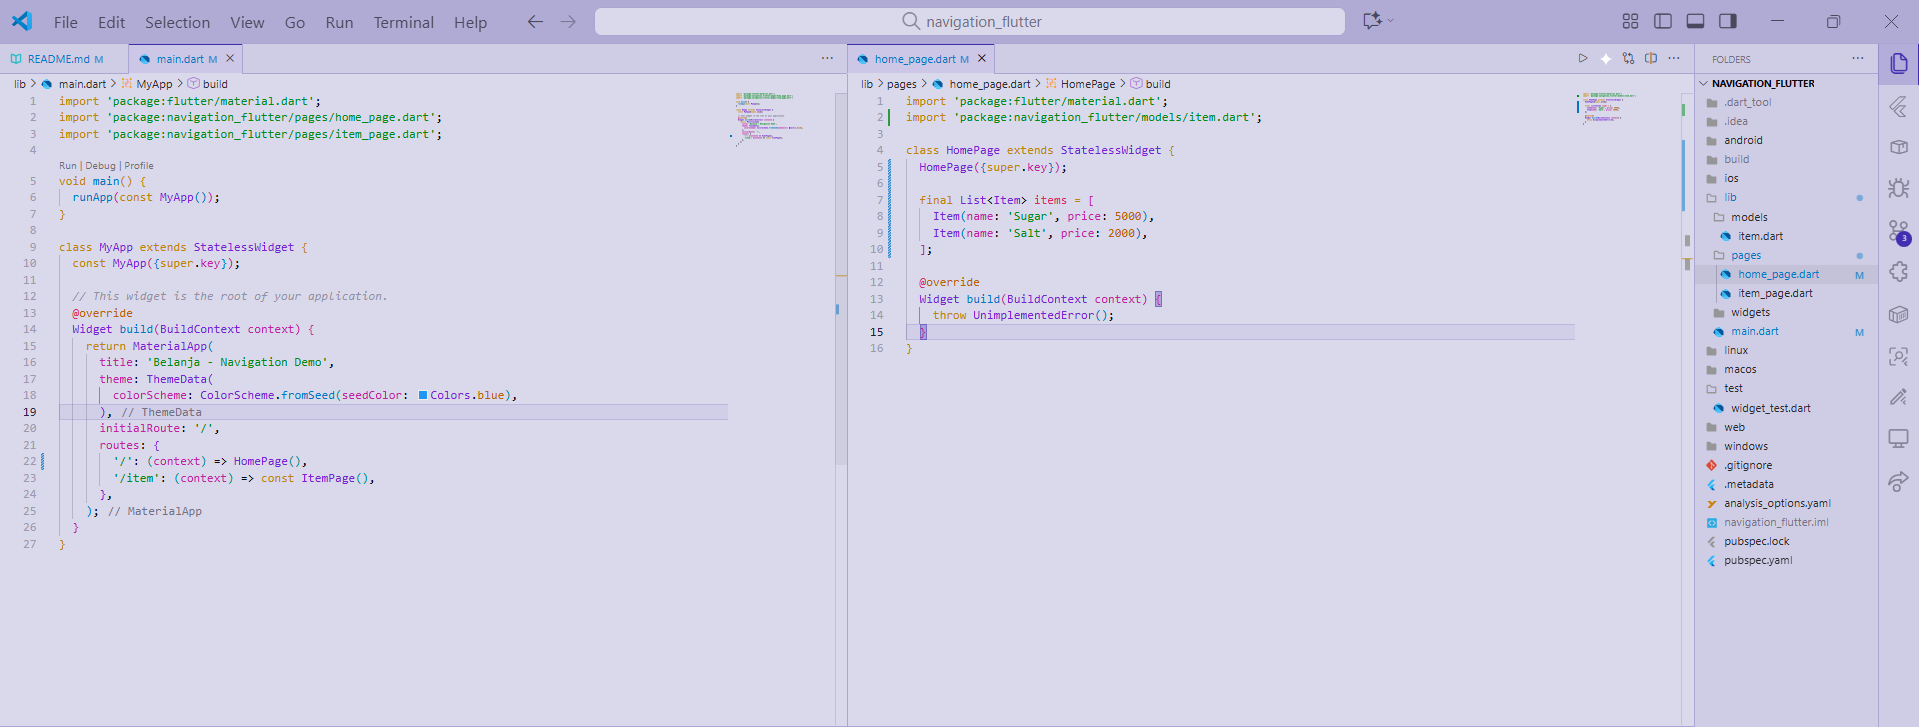
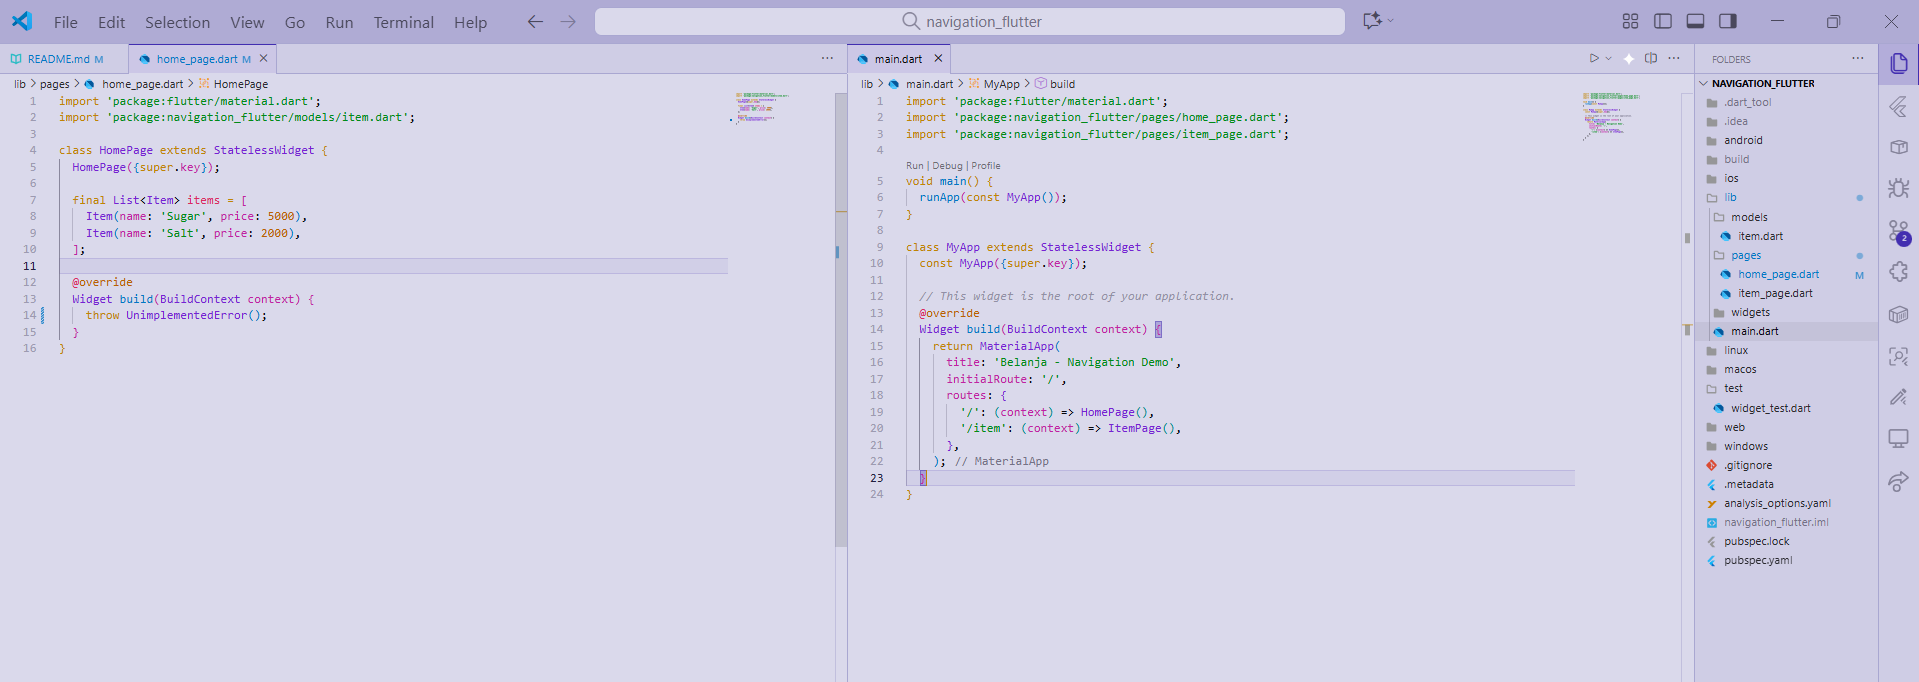
Update Praktikum 5: Langkah 5 - Lengkapi  kode di class HomePage/Definisi Model

diff --git a/navigation_flutter/lib/pages/home_page.dart b/navigation_flutter/lib/pages/home_page.dart
@@ -11,42 +11,6 @@ class HomePage extends StatelessWidget {
 
   @override
   Widget build(BuildContext context) {
-    return Scaffold(
-      appBar: AppBar(
-        title: Text('Shopping List', style: TextStyle(color: Colors.white)),
-        backgroundColor: Colors.blue,
-      ),
-      body: Container(
-        margin: EdgeInsets.all(8),
-        child: ListView.builder(
-          padding: EdgeInsets.all(8),
-          itemCount: items.length,
-          itemBuilder: (context, index) {
-            final item = items[index];
-            return InkWell(
-              onTap: () {
-                Navigator.pushNamed(context, '/item', arguments: item);
-              },
-              child: Card(
-                child: Container(
-                  margin: EdgeInsets.all(8),
-                  child: Row(
-                    children: [
-                      Expanded(child: Text(item.name)),
-                      Expanded(
-                        child: Text(
-                          item.price.toString(),
-                          textAlign: TextAlign.end,
-                        ),
-                      ),
-                    ],
-                  ),
-                ),
-              ),
-            );
-          },
-        ),
-      ),
-    );
+    throw UnimplementedError();
   }
 }

diff --git a/README.md b/README.md
@@ -43,7 +43,5 @@
   ![navigator](images/14.png)
 ### Langkah 4: Membuat data model
   ![data_model](images/15.png)
-### Langkah 5: Lengkapi kode di class HomePage/Membuat HomePage
+### Langkah 5: Lengkapi kode di class HomePage/Definisi Model
   ![home_page](images/16.png)
-### Langkah 6: Membuat ListView dan itemBuilder
-  ![list_view](images/17.png)
